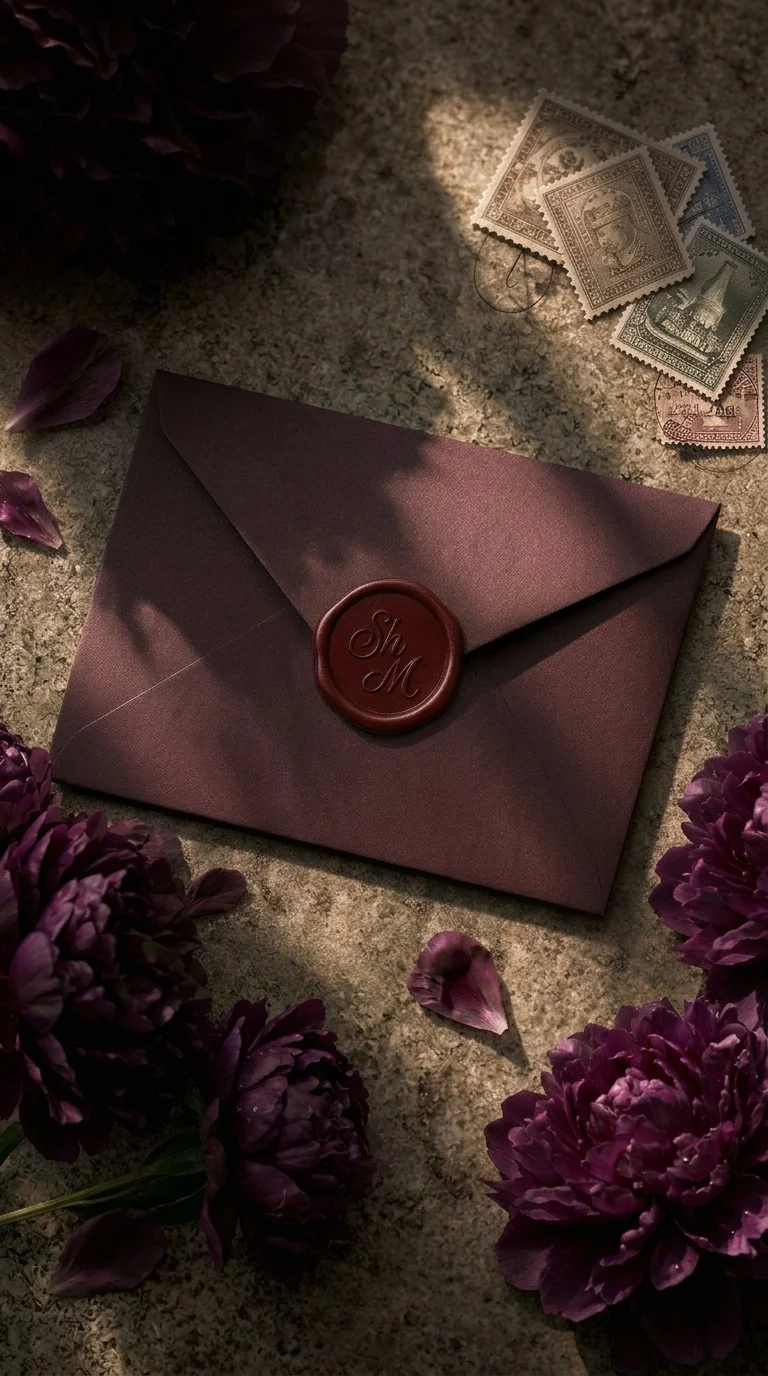
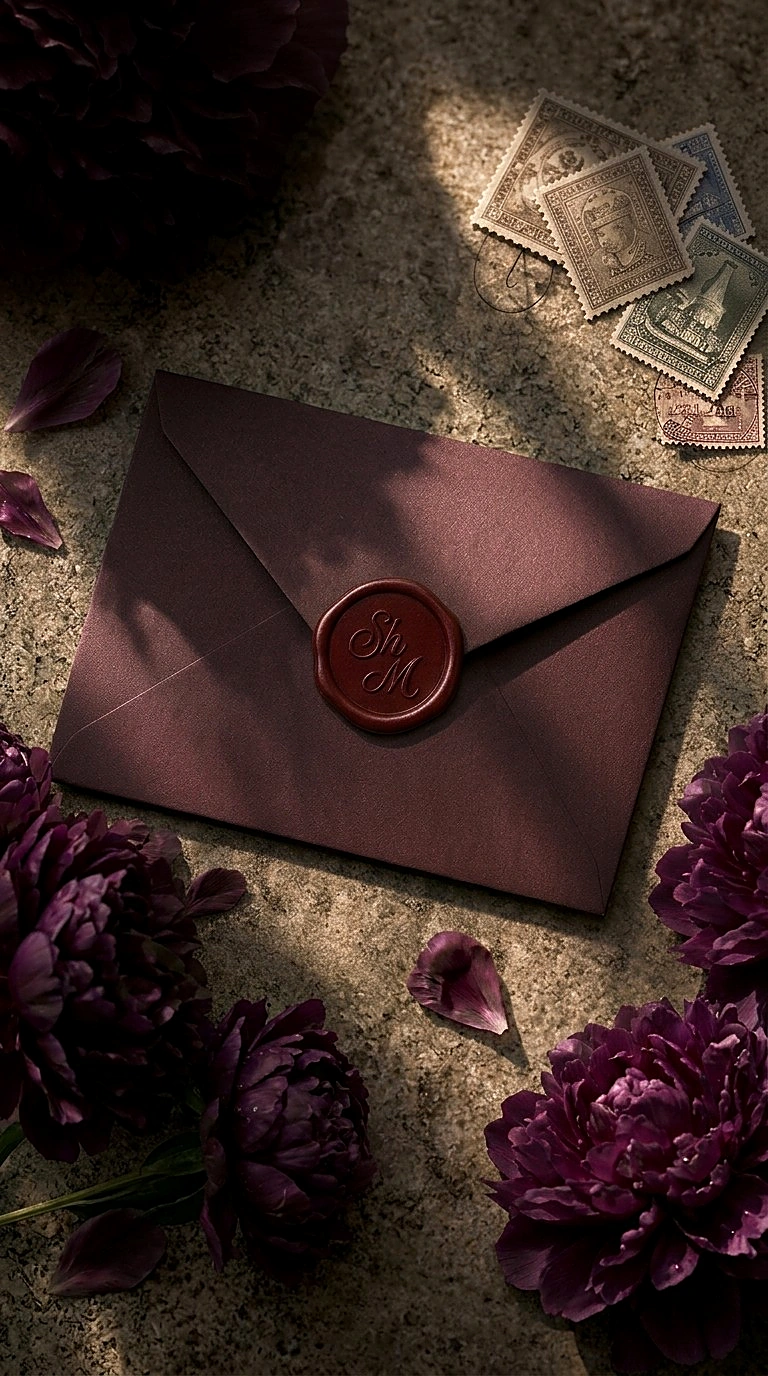
Opening: sharper envelope photo, faster zoom-through transition
Pending review: not yet merged into main.

Claude-Session: https://claude.ai/code/session_01GZeEDuRzNpSTCT193WpHHM

diff --git a/index.html b/index.html
@@ -47,23 +47,23 @@ img { display: block; max-width: 100%; }
   display: grid; place-items: center;
   cursor: pointer; outline: none; touch-action: none;
   -webkit-tap-highlight-color: transparent;
-  transition: opacity .35s ease, visibility .35s;
+  transition: opacity .15s linear, visibility .15s;
 }
 .intro-bg {
   /* Konvert surati; muhr suratda ekranning o'rtasiga to'g'ri keladi */
   position: absolute; inset: 0;
   background: #2a1a1c url(assets/envelope-wide.webp) 50% 48% / cover;
-  transition: transform .5s cubic-bezier(.5, 0, .75, 0);
+  transition: transform .4s cubic-bezier(.4, 0, .9, .4);
 }
 @media (max-aspect-ratio: 1/1) { .intro-bg { background-image: url(assets/envelope-tall.webp); } }
 /* Bosilganda: biroz ichkariga kattalashib, qorayib o'tadi */
-.intro-dark { position: absolute; inset: 0; background: #000; opacity: 0; transition: opacity .45s ease; }
-.intro.opening .intro-bg { transform: scale(1.08); }
+.intro-dark { position: absolute; inset: 0; background: #000; opacity: 0; transition: opacity .32s ease-in .05s; }
+.intro.opening .intro-bg { transform: scale(1.22); }
 .intro.opening .intro-dark { opacity: 1; }
 .intro.gone { opacity: 0; visibility: hidden; pointer-events: none; }
 
 /* ========== 2-SAHIFA: asosiy ========== */
-.main { position: relative; z-index: 1; opacity: 0; transition: opacity .35s ease; }
+.main { position: relative; z-index: 1; opacity: 0; transition: opacity .15s linear; }
 .main.revealed { opacity: 1; }
 
 /* Butun sahifa ortida bitta katta rasm: joyida turadi, kontent uning ustidan suriladi — chok yo'q */
@@ -90,7 +90,7 @@ img { display: block; max-width: 100%; }
     linear-gradient(180deg, rgba(60,45,15,.16) 0%, rgba(60,45,15,.02) 30%, rgba(60,45,15,.02) 100%);
 }
 /* 1-sahifadagi oqarishdan silliq davom etadi */
-.hero-white { position: absolute; inset: 0; background: #000; opacity: 1; transition: opacity .6s ease; pointer-events: none; }
+.hero-white { position: absolute; inset: 0; background: #000; opacity: 1; transition: opacity .4s ease-out; pointer-events: none; }
 .main.play .hero-white { opacity: 0; }
 .spark { position: absolute; border-radius: 50%; background: var(--gold-bright); opacity: .35; animation: spark 9s ease-in-out infinite; }
 @keyframes spark { 0%, 100% { transform: translateY(0) scale(1); opacity: .25; } 50% { transform: translateY(-26px) scale(1.15); opacity: .6; } }
@@ -495,7 +495,7 @@ img { display: block; max-width: 100%; }
     opened = true;
     startMusic();
     intro.classList.add('opening');
-    await wait(reduced ? 50 : 450);
+    await wait(reduced ? 50 : 370);
     window.scrollTo(0, 0);
     main.classList.add('revealed');
     main.removeAttribute('aria-hidden');
